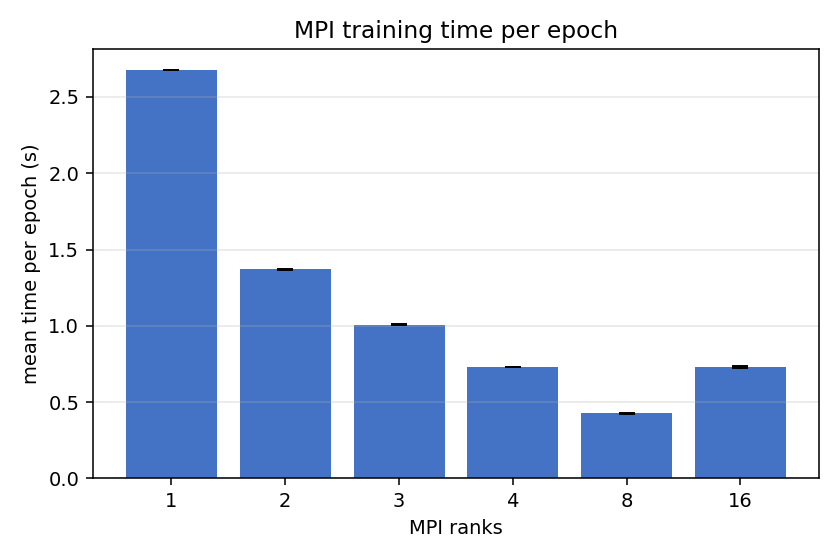
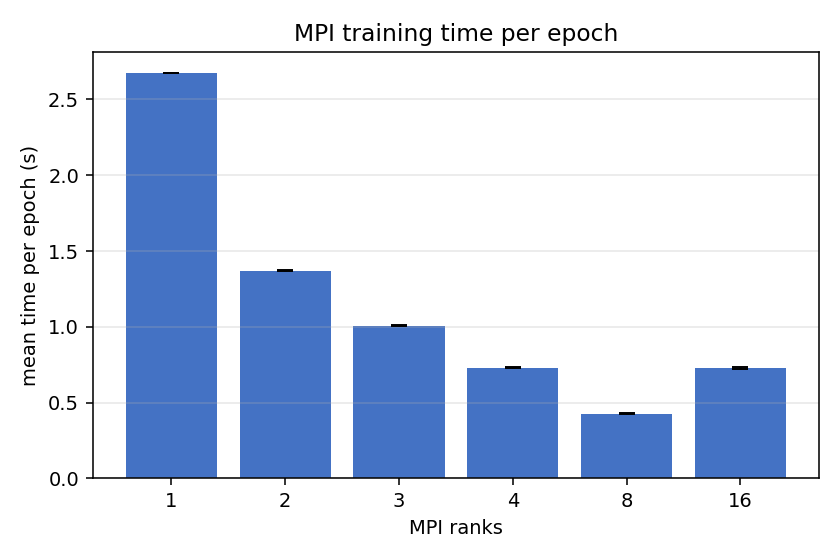
make plots.py

diff --git a/scripts/make_plots.py b/scripts/make_plots.py
@@ -7,6 +7,8 @@ Input:
 Output:
   plots/timing_summary.csv       grouped mean/std per configuration
   plots/accuracy_table.csv       representative accuracy row per variant
+  plots/accuracy_by_variant.png  final test Q3 comparison
+  plots/convergence_curves.png   validation Q3 and train-loss convergence
   plots/time_vs_threads.png      OpenMP and pthreads time per epoch
   plots/speedup_vs_threads.png   OpenMP and pthreads speedup
   plots/time_vs_ranks_mpi.png    MPI rank scaling
@@ -37,6 +39,22 @@ import matplotlib.pyplot as plt
 RESULTS = "results"
 OUT = "plots"
 VARIANTS = ("serial", "openmp", "pthreads", "mpi", "hybrid", "cuda")
+VARIANT_LABELS = {
+    "serial": "Serial",
+    "openmp": "OpenMP",
+    "pthreads": "Pthreads",
+    "mpi": "MPI",
+    "hybrid": "Hybrid",
+    "cuda": "CUDA",
+}
+VARIANT_COLORS = {
+    "serial": "#4B5563",
+    "openmp": "#2563EB",
+    "pthreads": "#F97316",
+    "mpi": "#16A34A",
+    "hybrid": "#7C3AED",
+    "cuda": "#DC2626",
+}
 
 os.makedirs(OUT, exist_ok=True)
 
@@ -363,7 +381,7 @@ def plot_cuda(summary: list[dict]) -> None:
     print(f"  wrote {out}")
 
 
-def write_accuracy_table(summary: list[dict]) -> list[dict]:
+def select_accuracy_references(summary: list[dict]) -> dict[str, dict]:
     by_variant = defaultdict(list)
     for row in summary:
         if row["mean_test_q3"] is not None:
@@ -374,7 +392,117 @@ def write_accuracy_table(summary: list[dict]) -> list[dict]:
         max_epochs = max(row["epochs"] or 0 for row in rows)
         candidates = [row for row in rows if row["epochs"] == max_epochs]
         selected[variant] = max(candidates, key=lambda row: row["latest_mtime"])
+    return selected
 
+
+def plot_accuracy_by_variant(accuracy_rows: list[dict]) -> None:
+    if not accuracy_rows:
+        placeholder_plot("accuracy_by_variant.png", "Final test Q3", "No final accuracy data found.")
+        return
+
+    variants = [row["variant"] for row in accuracy_rows]
+    labels = [VARIANT_LABELS.get(variant, variant) for variant in variants]
+    q3 = [float(row["test_q3"]) for row in accuracy_rows]
+    deltas = [
+        None if row["delta_vs_serial"] == "" else float(row["delta_vs_serial"])
+        for row in accuracy_rows
+    ]
+    serial_q3 = q3[0] if variants and variants[0] == "serial" else q3[0]
+
+    fig, ax = plt.subplots(figsize=(7.2, 4.4))
+    bars = ax.bar(
+        labels,
+        q3,
+        color=[VARIANT_COLORS.get(variant, "#64748B") for variant in variants],
+        alpha=0.86,
+    )
+    ax.axhline(serial_q3, color="#111827", linestyle="--", linewidth=1.2, label="serial baseline")
+    for bar, value, delta in zip(bars, q3, deltas):
+        ax.text(
+            bar.get_x() + bar.get_width() / 2,
+            value + 0.025,
+            f"{value:.2f}%",
+            ha="center",
+            va="bottom",
+            fontsize=8,
+        )
+        if delta is not None:
+            ax.text(
+                bar.get_x() + bar.get_width() / 2,
+                value - 0.055,
+                f"{delta:+.2f} pp",
+                ha="center",
+                va="top",
+                fontsize=8,
+                color="white",
+                fontweight="bold",
+            )
+
+    ax.set_ylabel("test Q3 (%)")
+    ax.set_title("Final test Q3 by implementation")
+    ax.set_ylim(max(0, min(q3) - 0.25), max(q3) + 0.25)
+    ax.grid(True, axis="y", alpha=0.25)
+    ax.legend(loc="lower right")
+    fig.tight_layout()
+    out = f"{OUT}/accuracy_by_variant.png"
+    fig.savefig(out, dpi=160)
+    plt.close(fig)
+    print(f"  wrote {out}")
+
+
+def plot_convergence_curves(summary: list[dict]) -> None:
+    selected = select_accuracy_references(summary)
+    if not selected:
+        placeholder_plot("convergence_curves.png", "Training convergence", "No 80-epoch reference runs found.")
+        return
+
+    fig, (ax_q3, ax_loss) = plt.subplots(2, 1, figsize=(7.4, 6.0), sharex=True)
+    plotted = False
+    for variant in VARIANTS:
+        row = selected.get(variant)
+        if not row or not row.get("latest_file"):
+            continue
+        try:
+            with open(row["latest_file"], "r", encoding="utf-8") as handle:
+                data = json.load(handle)
+        except Exception as exc:
+            print(f"  [skip] convergence {variant}: {exc}")
+            continue
+        epoch_log = data.get("epoch_log") or []
+        if not epoch_log:
+            continue
+        epochs = [entry["epoch"] for entry in epoch_log]
+        val_q3 = [entry["val_q3"] for entry in epoch_log]
+        train_loss = [entry["train_loss"] for entry in epoch_log]
+        label = VARIANT_LABELS.get(variant, variant)
+        color = VARIANT_COLORS.get(variant)
+        ax_q3.plot(epochs, val_q3, label=label, color=color, linewidth=1.5, alpha=0.88)
+        ax_loss.plot(epochs, train_loss, label=label, color=color, linewidth=1.5, alpha=0.88)
+        plotted = True
+
+    if not plotted:
+        plt.close(fig)
+        placeholder_plot("convergence_curves.png", "Training convergence", "No convergence data found.")
+        return
+
+    ax_q3.set_ylabel("validation Q3 (%)")
+    ax_q3.set_title("Validation accuracy convergence")
+    ax_q3.grid(True, alpha=0.25)
+    ax_q3.legend(ncol=3, fontsize=8, loc="lower right")
+
+    ax_loss.set_xlabel("epoch")
+    ax_loss.set_ylabel("training loss")
+    ax_loss.set_title("Training loss convergence")
+    ax_loss.grid(True, alpha=0.25)
+    fig.tight_layout()
+    out = f"{OUT}/convergence_curves.png"
+    fig.savefig(out, dpi=160)
+    plt.close(fig)
+    print(f"  wrote {out}")
+
+
+def write_accuracy_table(summary: list[dict]) -> list[dict]:
+    selected = select_accuracy_references(summary)
     serial_q3 = selected.get("serial", {}).get("mean_test_q3")
     rows = []
     for variant in VARIANTS:
@@ -463,6 +591,8 @@ def main() -> None:
 
     print("\n--- accuracy table ---")
     accuracy_rows = write_accuracy_table(summary)
+    plot_accuracy_by_variant(accuracy_rows)
+    plot_convergence_curves(summary)
     for row in accuracy_rows:
         print(
             f"  {row['variant']:10s} ep={row['epochs']:>3} "
